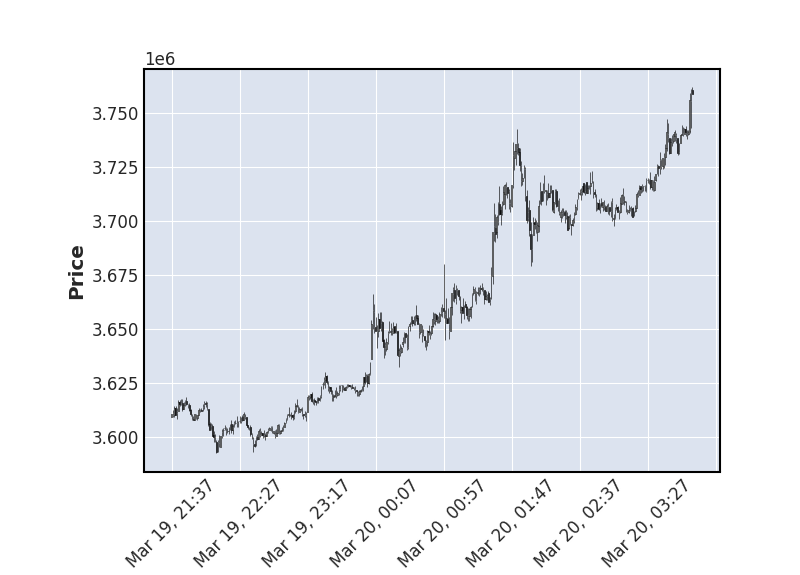
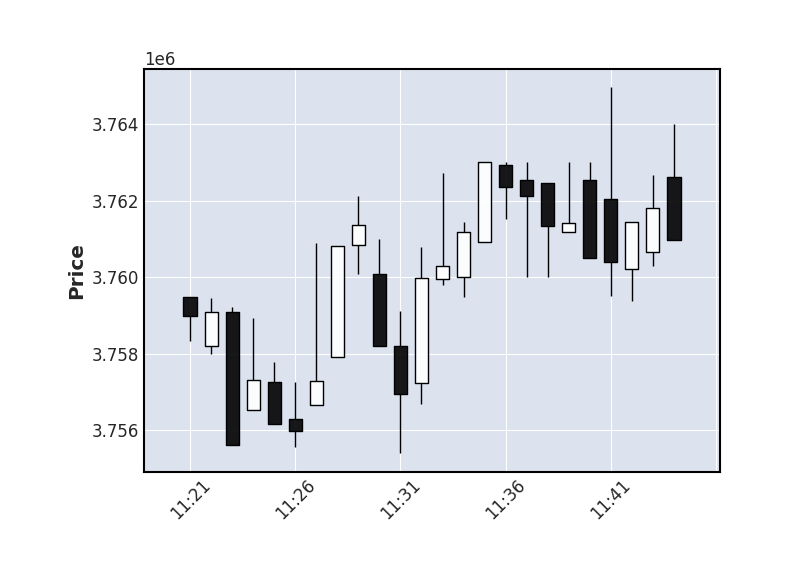
edit

diff --git a/data/fetch_data_from_bitflyer.py b/data/fetch_data_from_bitflyer.py
@@ -20,7 +20,7 @@ class chart_1m:
 
     async def get_data(self):
         uri = 'wss://ws.lightstream.bitflyer.com/json-rpc'
-        query = {'method': 'subscribe', 'params': {'channel': 'lightning_ticker_FX_BTC_JPY'}}
+        query = {'method': 'subscribe', 'params': {'channel': 'lightning_executions_FX_BTC_JPY'}}
         while True:
             async with aiohttp.ClientSession() as session:
                 async with session.ws_connect(uri, receive_timeout=60) as client:
@@ -32,18 +32,21 @@ class chart_1m:
                             print('response: ' + str(response))
                             break
                         data = json.loads(response[1])['params']['message']
-                        data = {'timestamp': dt.strptime(data['timestamp'][:19], '%Y-%m-%dT%H:%M:%S'), 'ltp': data['ltp']}
-                        data['timestamp'] = data['timestamp'] + td(hours=9)
-                        now_minute = data['timestamp'].replace(second=0, microsecond=0)
-                        if pre_tick_minute != now_minute and len(now_minute_price_list) > 0:
-                            ohlc = self.make_ohlc(now_minute_price_list)
-                            now_minute_price_list = []
-                            self.realtime_data.loc[pre_tick_minute] = list(ohlc) # type: ignore
-                            with open('raw.csv', 'a', newline='') as f:
-                                writer = csv.writer(f)
-                                writer.writerow([pre_tick_minute] + list(ohlc))
-                        now_minute_price_list.append(data[('ltp')])
-                        pre_tick_minute = now_minute
+                        # 複数の約定が配列で配信される
+                        for d in data:
+                            d = {'exec_date': dt.strptime(d['exec_date'][:19], '%Y-%m-%dT%H:%M:%S'), 'price': d['price']}
+                            d['exec_date'] = d['exec_date'] + td(hours=9)
+                            now_minute = d['exec_date'].replace(second=0, microsecond=0)
+                            if pre_tick_minute != now_minute and len(now_minute_price_list) > 0:
+                                ohlc = self.make_ohlc(now_minute_price_list)
+                                now_minute_price_list = []
+                                self.realtime_data.loc[pre_tick_minute] = list(ohlc) # type: ignore
+                                print(ohlc)
+                                with open('raw.csv', 'a', newline='') as f:
+                                    writer = csv.writer(f)
+                                    writer.writerow([pre_tick_minute] + list(ohlc))
+                            now_minute_price_list.append(d[('price')])
+                            pre_tick_minute = now_minute
 
     async def make_chart(self):
         while True:
